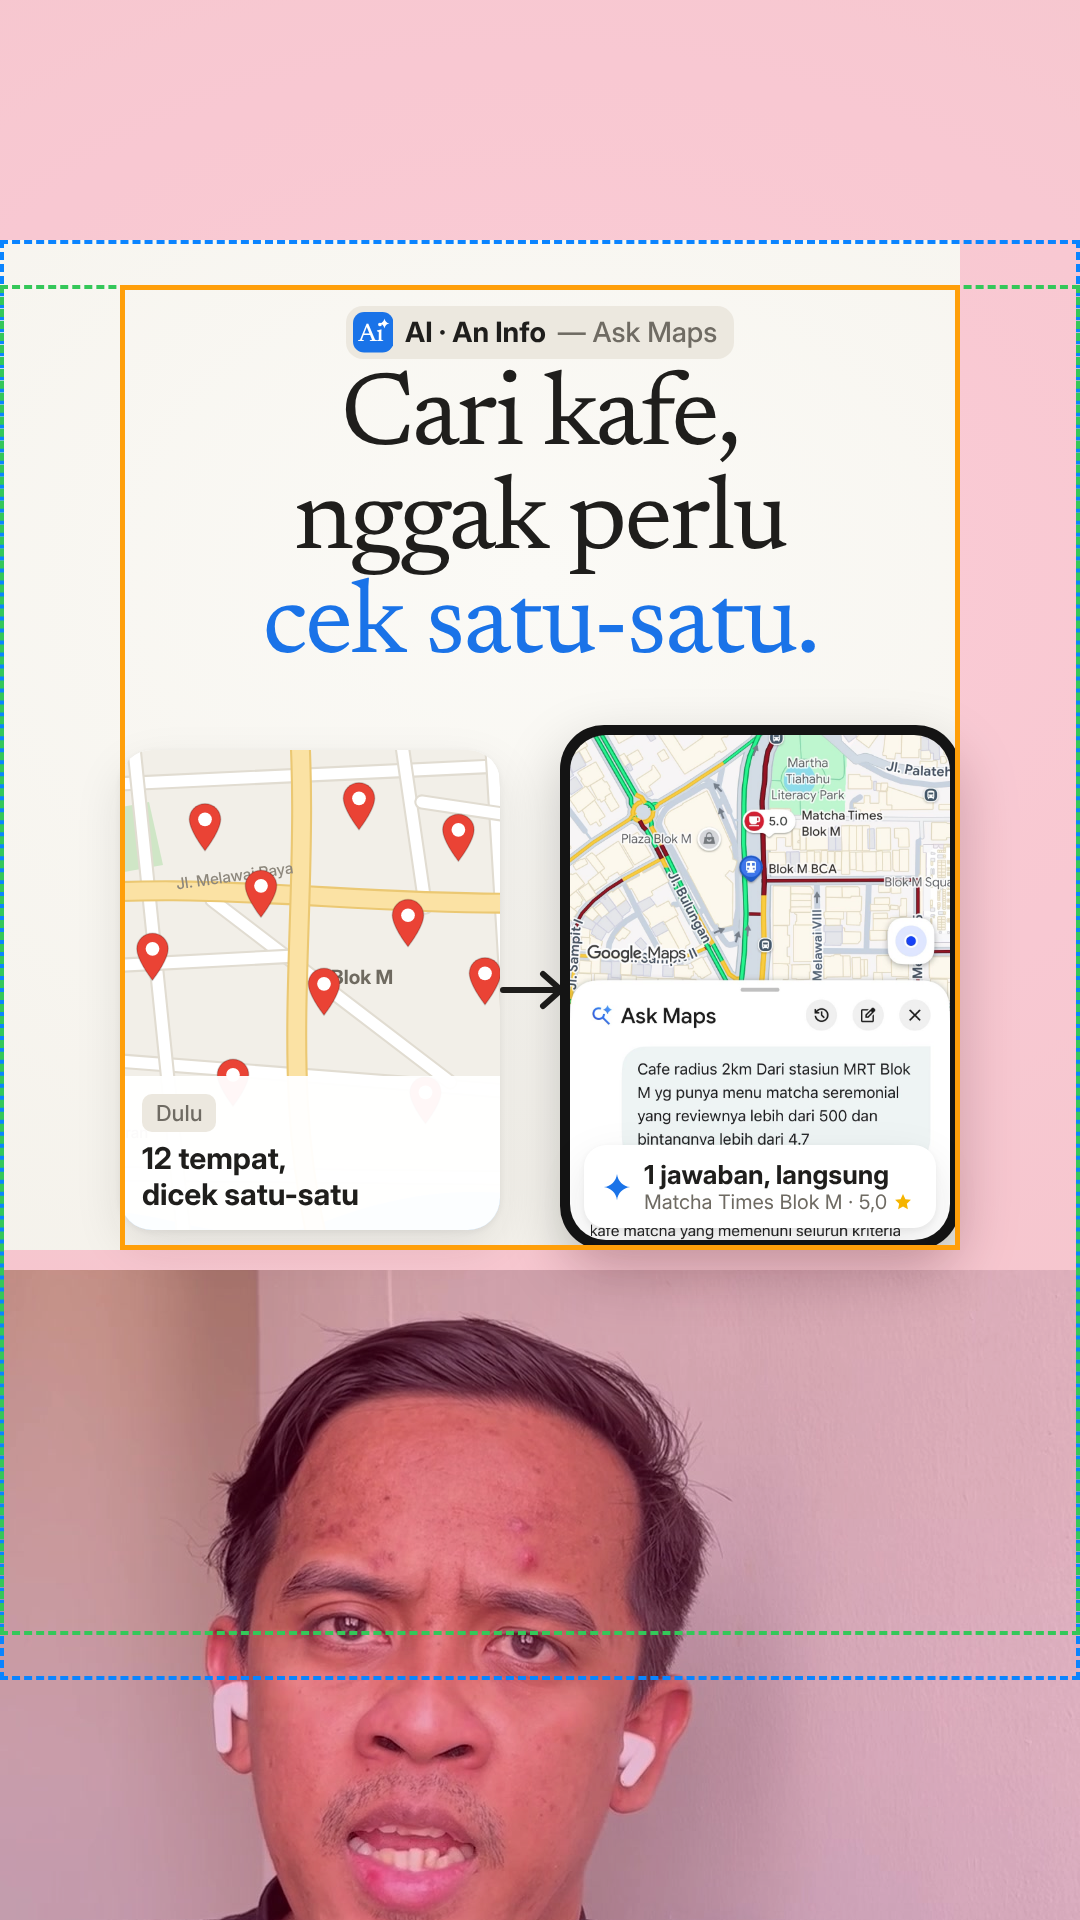
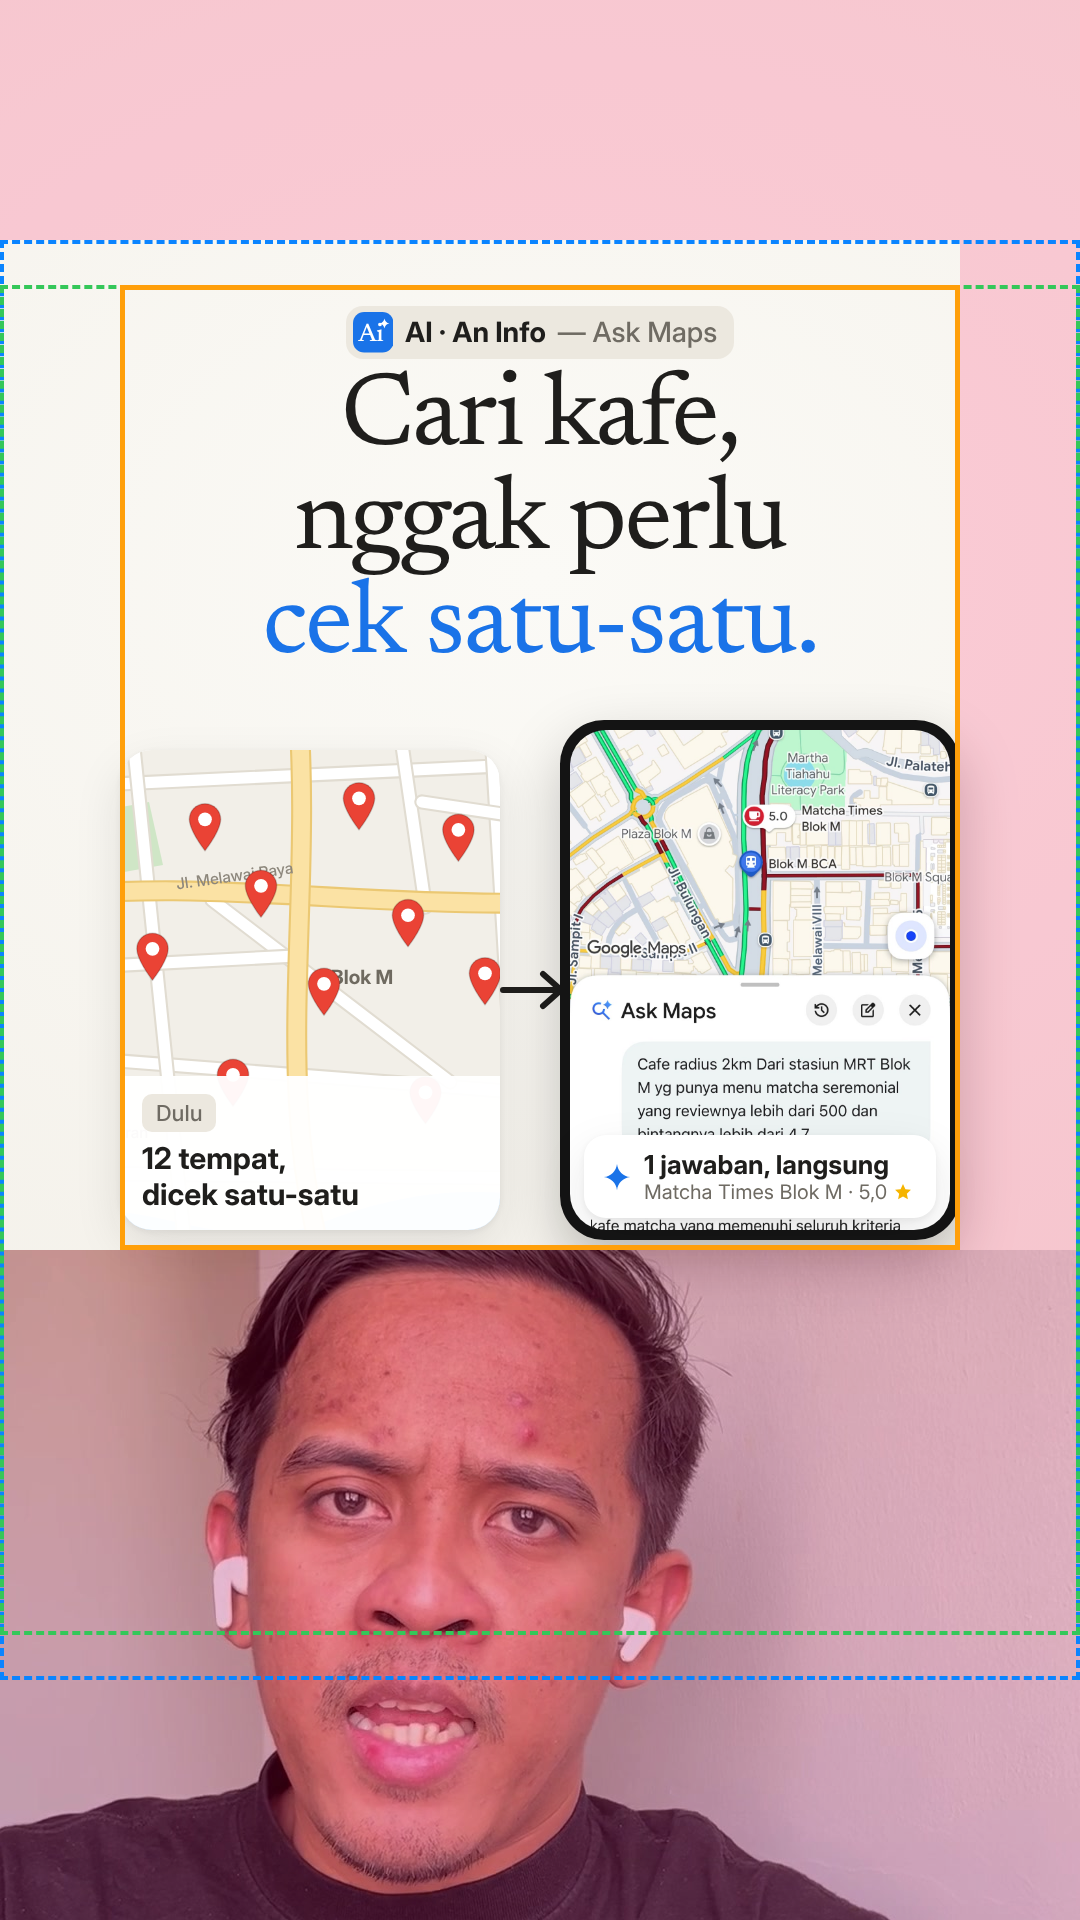
faqihpedia-askmaps: one portrait cover for all platforms, face kept inside the IG 3:4 and 4:5 crops
Claude-Session: https://claude.ai/code/session_018xRo3dLkTueX2rkmvZyzov

Changed region(s): [[0.0, 0.375, 0.9778, 1.0]]

diff --git a/faqihpedia-askmaps/src/Thumbnail.tsx b/faqihpedia-askmaps/src/Thumbnail.tsx
@@ -43,7 +43,7 @@ const OldWay: React.FC = () => (
 );
 
 const NewWay: React.FC = () => (
-  <div style={{ position: 'absolute', left: 560, top: 725, width: 400, height: 525 }}>
+  <div style={{ position: 'absolute', left: 560, top: 720, width: 400, height: 520 }}>
     <div style={{ position: 'absolute', inset: 0, borderRadius: 44, background: '#141414', boxShadow: '0 24px 60px rgba(0,0,0,0.22)' }}>
       <div style={{ position: 'absolute', left: 10, top: 10, right: 10, bottom: 10, borderRadius: 36, overflow: 'hidden', background: '#fff' }}>
         <Img src={staticFile('thumb_result.jpg')} style={{ width: 380, display: 'block' }} />
@@ -61,12 +61,12 @@ const NewWay: React.FC = () => (
   </div>
 );
 
-export const Cover: React.FC<{ guides?: boolean; offsetY?: number; faceY?: number }> = ({ guides = false, offsetY = 0, faceY = 455 }) => (
+export const Cover: React.FC<{ guides?: boolean; offsetY?: number; faceY?: number }> = ({ guides = false, offsetY = 0, faceY = 560 }) => (
   <AbsoluteFill style={{ background: C.bg }}>
     <div style={{ position: 'absolute', left: 0, top: -offsetY, width: 1080, height: 1920 }}>
       <AbsoluteFill style={{ background: `radial-gradient(1200px 900px at 50% 30%, ${C.paper}, ${C.bg})` }} />
-      {/* face: the split layout from the video (4:5 shows less of it, so it is framed on eyes + mouth) */}
-      <div style={{ position: 'absolute', left: 0, top: 1270, width: 1080, height: 650, overflow: 'hidden' }}>
+      {/* face: the split layout from the video, framed so eyes + mouth stay inside the IG 4:5 crop (y < 1635) */}
+      <div style={{ position: 'absolute', left: 0, top: 1250, width: 1080, height: 670, overflow: 'hidden' }}>
         <Img src={staticFile('thumb_face.jpg')} style={{ position: 'absolute', left: 0, top: -faceY, width: 1080 }} />
       </div>
       <div style={{ position: 'absolute', left: 0, right: 0, top: 306, textAlign: 'center' }}>
@@ -88,4 +88,4 @@ export const Cover: React.FC<{ guides?: boolean; offsetY?: number; faceY?: numbe
 
 export const Thumbnail: React.FC = () => <Cover />;
 export const ThumbnailGuides: React.FC = () => <Cover guides />;
-export const Thumbnail4x5: React.FC = () => <Cover offsetY={285} faceY={640} />;
+export const Thumbnail4x5: React.FC = () => <Cover offsetY={285} />;

diff --git a/README.md b/README.md
@@ -108,7 +108,7 @@ npm run render -- --browser-executable=<chrome-headless-shell>
 | 49.5–54.9 | `split` | before vs now |
 | 54.9–end | `full` | outro + "Like dulu, ya" |
 
-**Cover** (`faqihpedia-askmaps/thumbnail/`): `cover.png` (1080×1920, the cover for TikTok and Reels) and `cover-4x5.png` (1080×1350, for an IG feed post). Headline and visuals stay inside the shared safe box x 120–960, y 285–1250; `cover-safe-area-check.png` shows it over the TikTok UI and the IG 3:4 and 4:5 crops. Render with `npx remotion still Thumbnail|Thumbnail4x5|ThumbnailGuides <out>.png`.
+**Cover** (`faqihpedia-askmaps/thumbnail/cover.png`, 1080×1920): one file for TikTok, IG Reels and the IG feed. Headline and visuals stay inside the shared safe box x 120–960, y 285–1250. The face is framed so the eyes and mouth stay inside IG's 3:4 grid and 4:5 feed crops. `cover-safe-area-check.png` shows the overlays. Render with `npx remotion still Thumbnail thumbnail/cover.png`.
 
 The segment standard ("AI (An Info)") is documented separately: story beats, editing rules, style, safe areas and a checklist.
 
